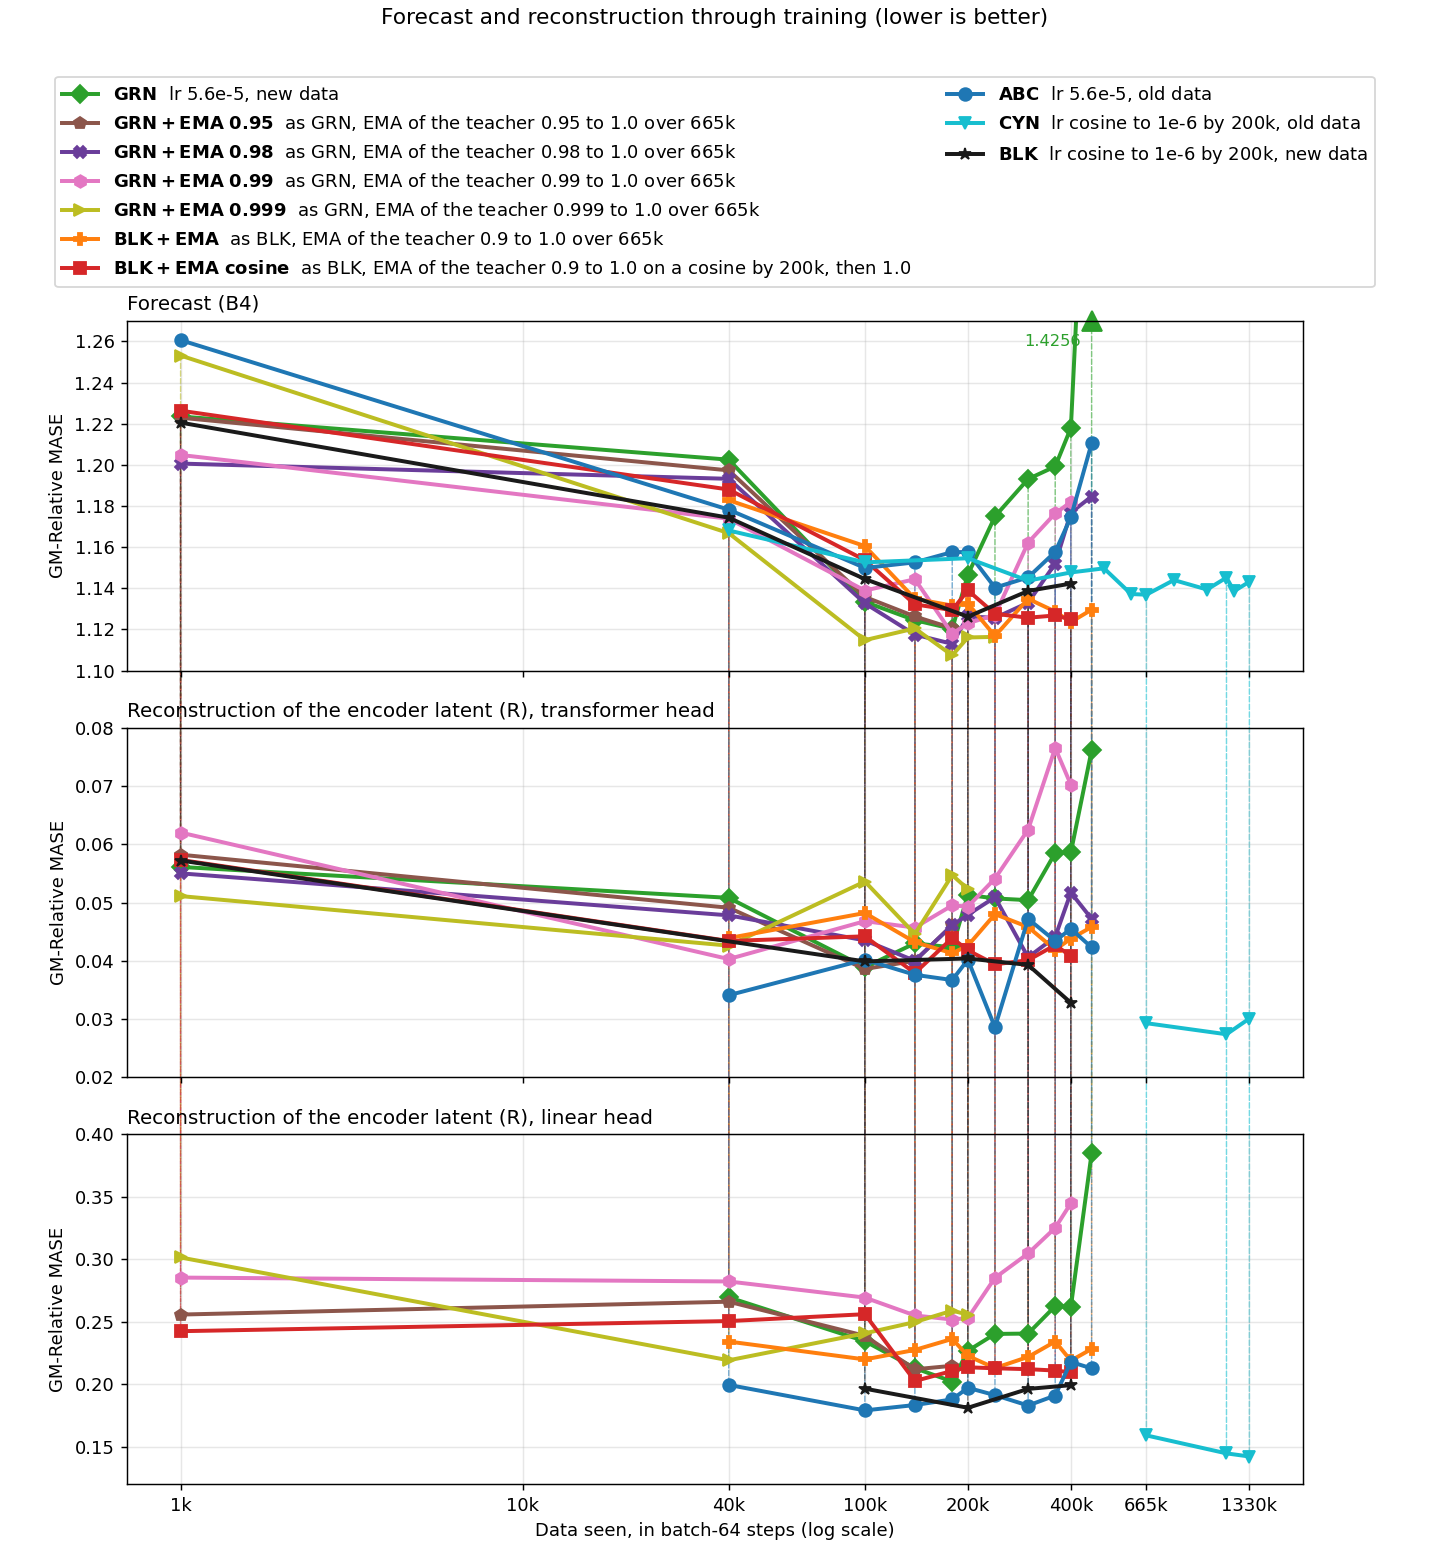
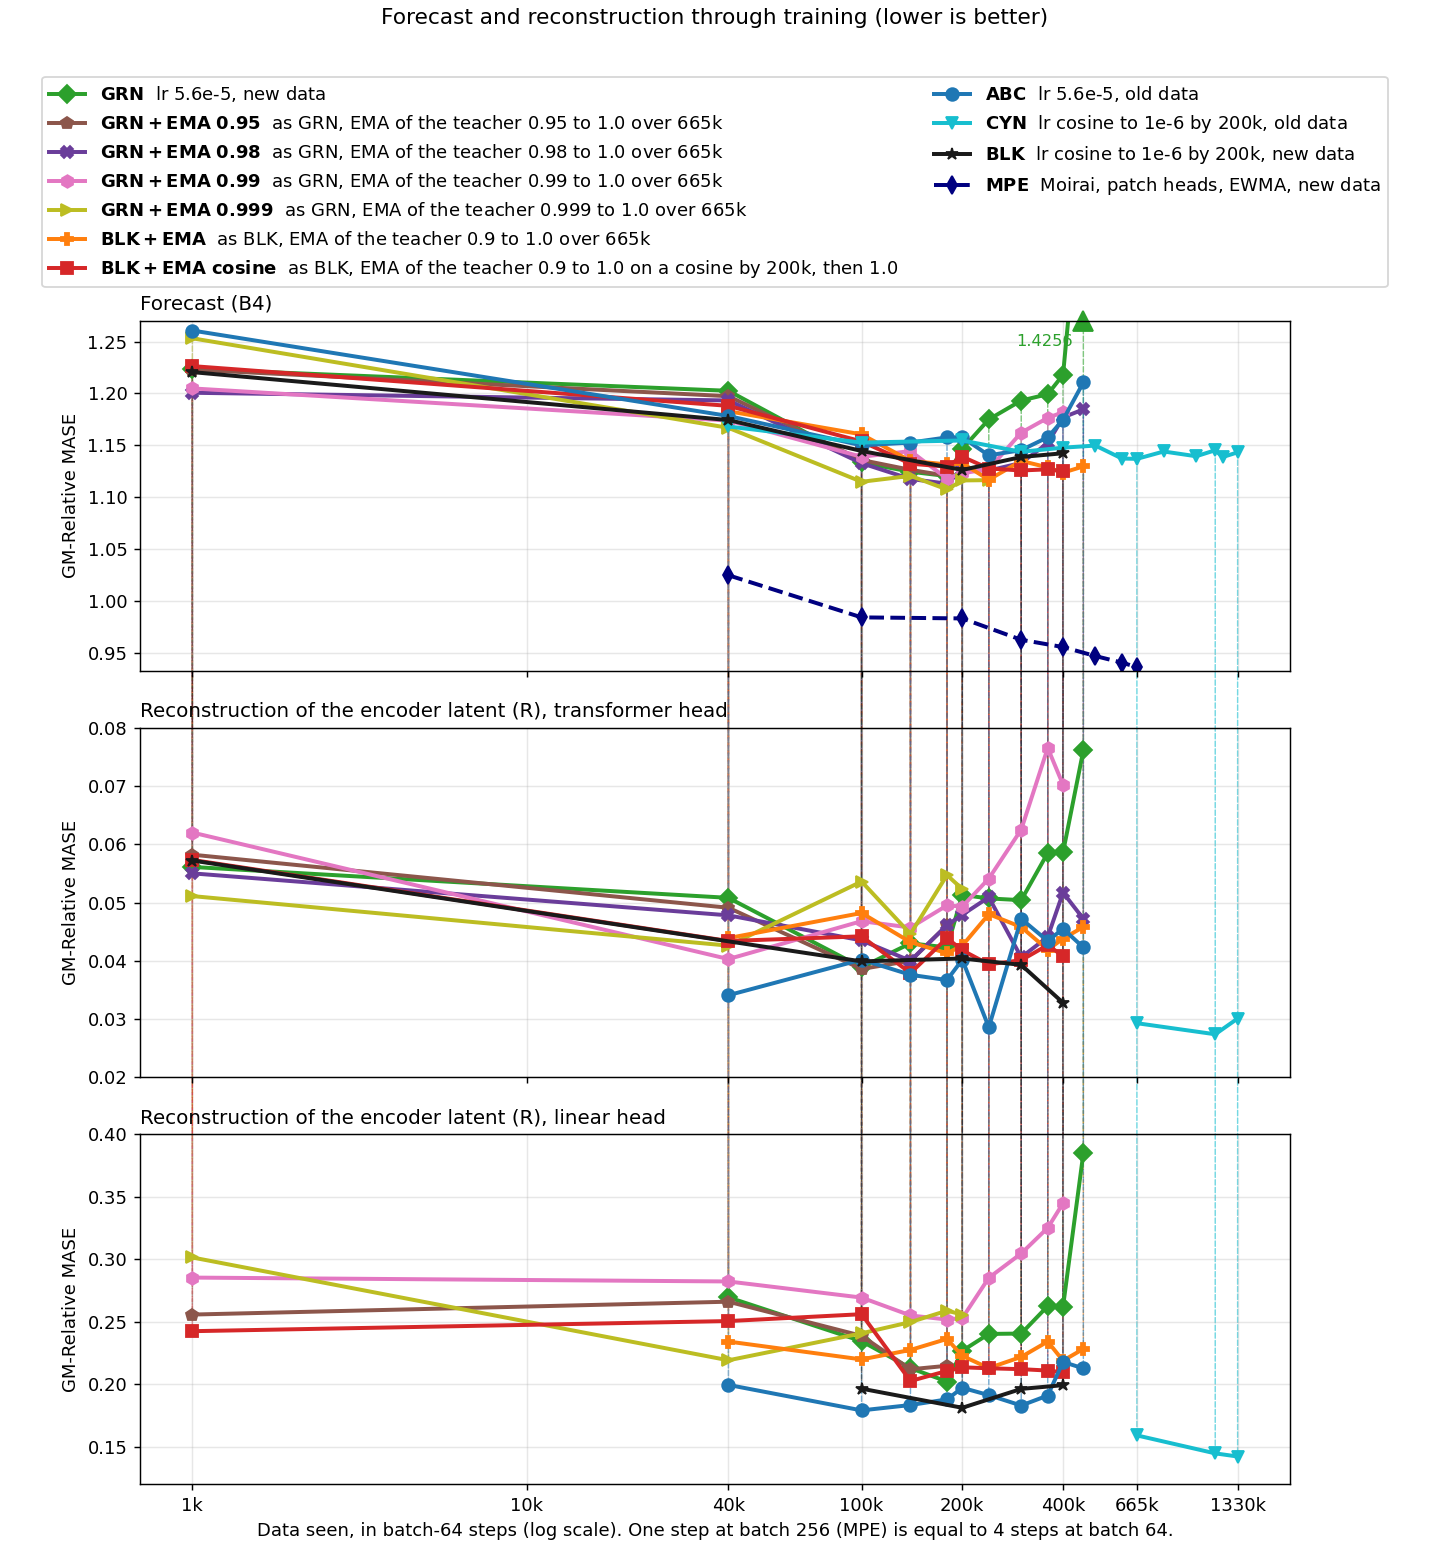
Frequency family report: the forecast of MPE (Moirai, patch heads, EWMA, new data) in the figure
MPE trains at batch 256: its stops count 4 batch-64 steps each on the x axis.
Its R lies far above the R panels, so the figure draws its forecast only.

diff --git a/reports/2026-10-10_frequency_family_head/scripts/plot_green_scores.py b/reports/2026-10-10_frequency_family_head/scripts/plot_green_scores.py
@@ -1,7 +1,8 @@
 """The forecast and the reconstruction of the encoder latent through training,
 for the runs of this report (GRN, BLK+EMA, GRN+EMA 0.95, GRN+EMA 0.98, GRN+EMA
-0.99, GRN+EMA 0.999, BLK+EMA cosine) next to ABC, CYN and BLK. Writes
-plots/forecast_and_reconstruction.png: three panels on one x axis.
+0.99, GRN+EMA 0.999, BLK+EMA cosine) next to ABC, CYN and BLK, and the forecast
+of MPE (Moirai, patch heads, EWMA, new data, batch 256: x 4 for the data
+seen). Writes plots/forecast_and_reconstruction.png: three panels on one x axis.
 
   1. Forecast (B4): the forecaster rolls the latents forward, and the
      standard reconstruction head decodes each rolled latent.
@@ -40,7 +41,8 @@ STUDY = Path(__file__).resolve().parent.parent
 MOIRAI = STUDY.parent / "2026-09-06_moirai_small_size"
 RECON = STUDY.parent / "2026-10-06_encoder_reconstruction" / "results"
 sys.path.insert(0, str(MOIRAI / "scripts"))
-from run_style import P, colour, tagged  # noqa: E402
+from run_style import STYLE, P, colour, line, tagged  # noqa: E402
+from plot_gm_rates import XSCALE  # noqa: E402  (batch-256 runs: 4)
 
 GREEN = "abc_gift"
 GREEN_COLOUR = "#2ca02c"  # the colour of the new run in plot_scores.py
@@ -60,6 +62,9 @@ BLK_EMACOS_COLOUR = "#d62728"  # its colour in plot_ema_plan.py
 NEW_RUNS = [GREEN, BLK_EMA, GRN_EMA095, GRN_EMA, GRN_EMA099, GRN_EMA0999, BLK_EMACOS]
 # Older runs with a forecast at 1k steps in results/scores.tsv: arm -> run.
 FIRST_STEPS = {"cf419_cos200k": "blk", P + "_lr10x": "abc"}
+MPE = "cf421ew_moirai_native"
+# Its R (transformer head 0.12 to 0.21) lies far above the R panels.
+FORECAST_ONLY = {MPE}
 OUT = STUDY / "plots" / "forecast_and_reconstruction.png"
 # (arm, legend label, colour, marker): the runs of the figure.
 RUNS = [
@@ -81,6 +86,7 @@ RUNS = [
      colour(P + "_cos200k"), "v"),
     ("cf419_cos200k", tagged("cf419_cos200k", "lr cosine to 1e-6 by 200k, new data"),
      colour("cf419_cos200k"), "*"),
+    (MPE, tagged(MPE, "Moirai, patch heads, EWMA, new data"), colour(MPE), "d"),
 ]
 OURS = STUDY / "results"
 # The R tables of collect_recon.py (first_steps: the 1k point of BLK and ABC).
@@ -102,13 +108,14 @@ TICKS_K = [1, 10, 40, 100, 200, 400, 665, 1330]
 
 
 def read_table(paths):
-    """``{arm: {stop k: score}}`` from tables of arm, stop k and score."""
+    """``{arm: {data seen in thousands of batch-64 steps: score}}`` from
+    tables of arm, stop k and score."""
     points = {}
     for path in paths:
         if Path(path).is_file():
-            for line in open(path):
-                arm, stop_k, score = line.split()
-                points.setdefault(arm, {})[int(stop_k)] = float(score)
+            for row in open(path):
+                arm, stop_k, score = row.split()
+                points.setdefault(arm, {})[int(stop_k) * XSCALE.get(arm, 1)] = float(score)
     return points
 
 
@@ -129,6 +136,9 @@ def panel_points(tables, forecast):
             points[run] = new_run_forecast(run)
         for arm, run in FIRST_STEPS.items():
             points.setdefault(arm, {}).update(new_run_forecast(run, stops={1}))
+    else:
+        for arm in FORECAST_ONLY:
+            points.pop(arm, None)
     return points
 
 
@@ -143,7 +153,7 @@ def draw_panel(ax, title, y_range, points):
         values = [points[arm][s] for s in stops]
         low = min(low, min(values) - 0.02 * (y_range[1] - y_range[0]))
         ax.plot([s * 1000 for s in stops], values, color=colour_hex, marker=marker,
-                lw=2.2, ms=7, label=label)
+                ls=line(arm) if arm in STYLE else "-", lw=2.2, ms=7, label=label)
         for stop, value in zip(stops, values):
             if value > y_range[1]:
                 ax.plot(stop * 1000, y_range[1], "^", ms=11, color=colour_hex, clip_on=False)
@@ -160,7 +170,8 @@ def style_x(ax):
     ax.xaxis.set_major_locator(FixedLocator([k * 1000 for k in TICKS_K]))
     ax.xaxis.set_minor_locator(NullLocator())
     ax.set_xticklabels([f"{k}k" for k in TICKS_K])
-    ax.set_xlabel("Data seen, in batch-64 steps (log scale)")
+    ax.set_xlabel("Data seen, in batch-64 steps (log scale). One step at batch 256 (MPE) "
+                  "is equal to 4 steps at batch 64.")
 
 
 def clipped(ax, value):
